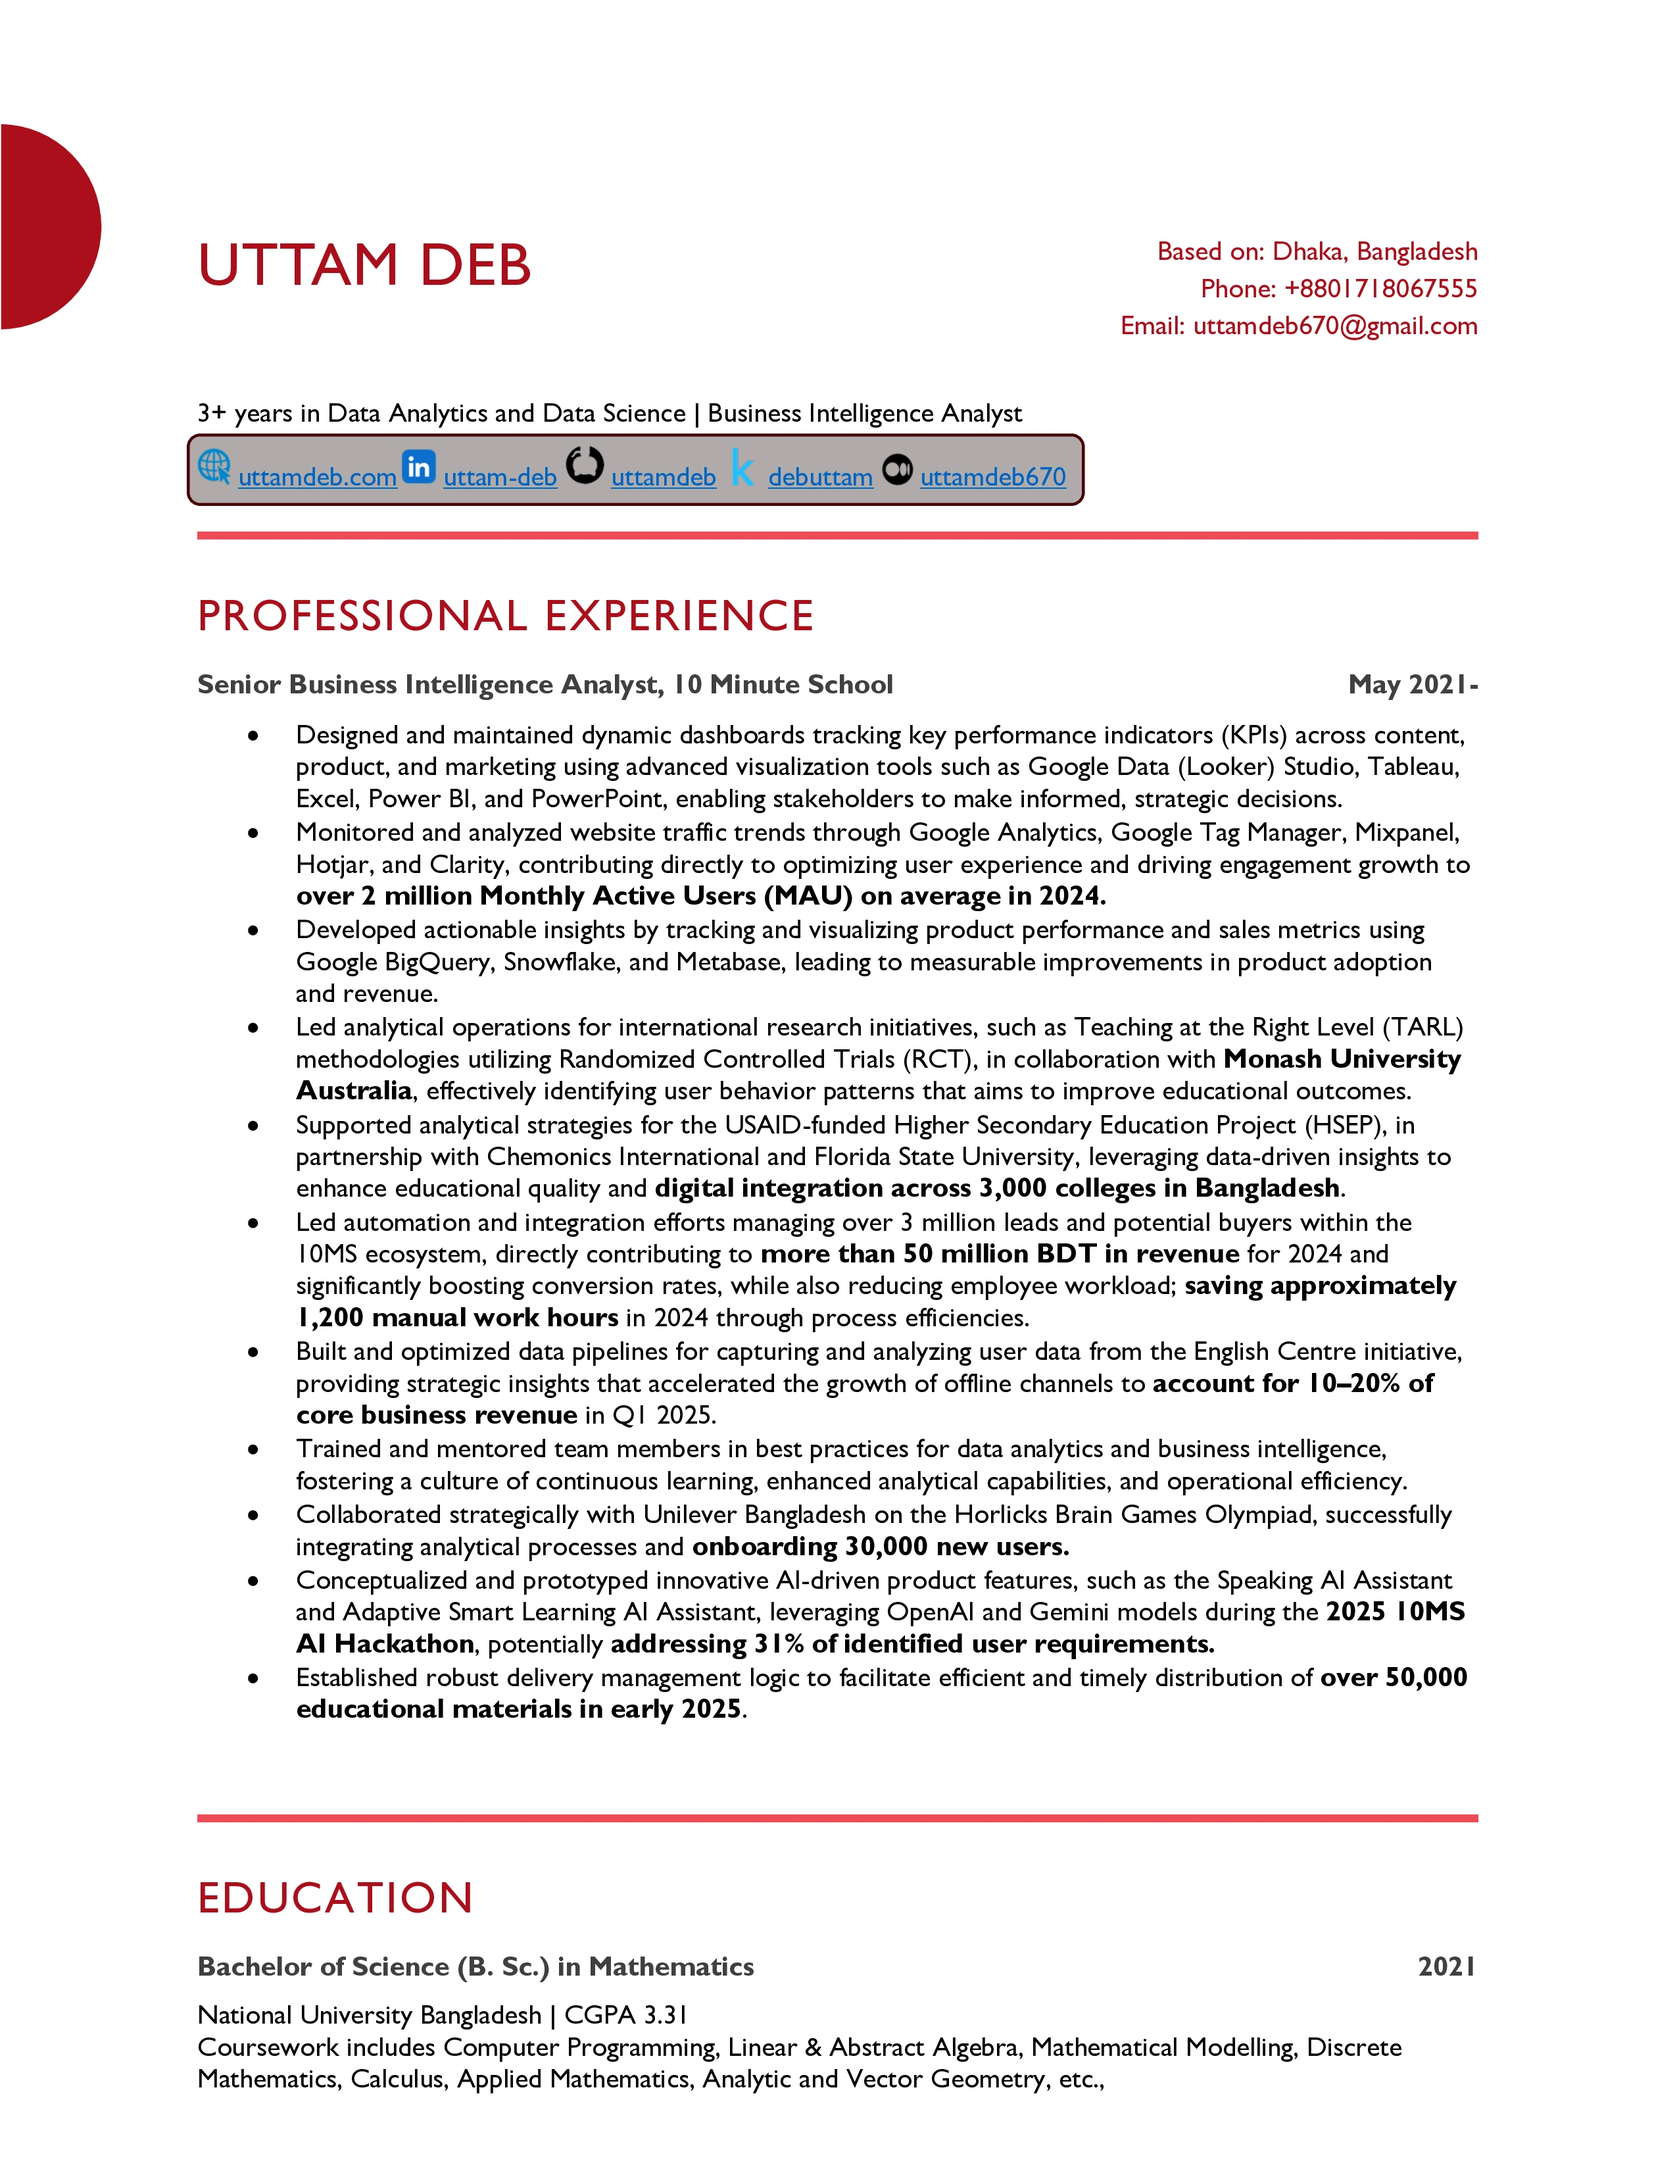
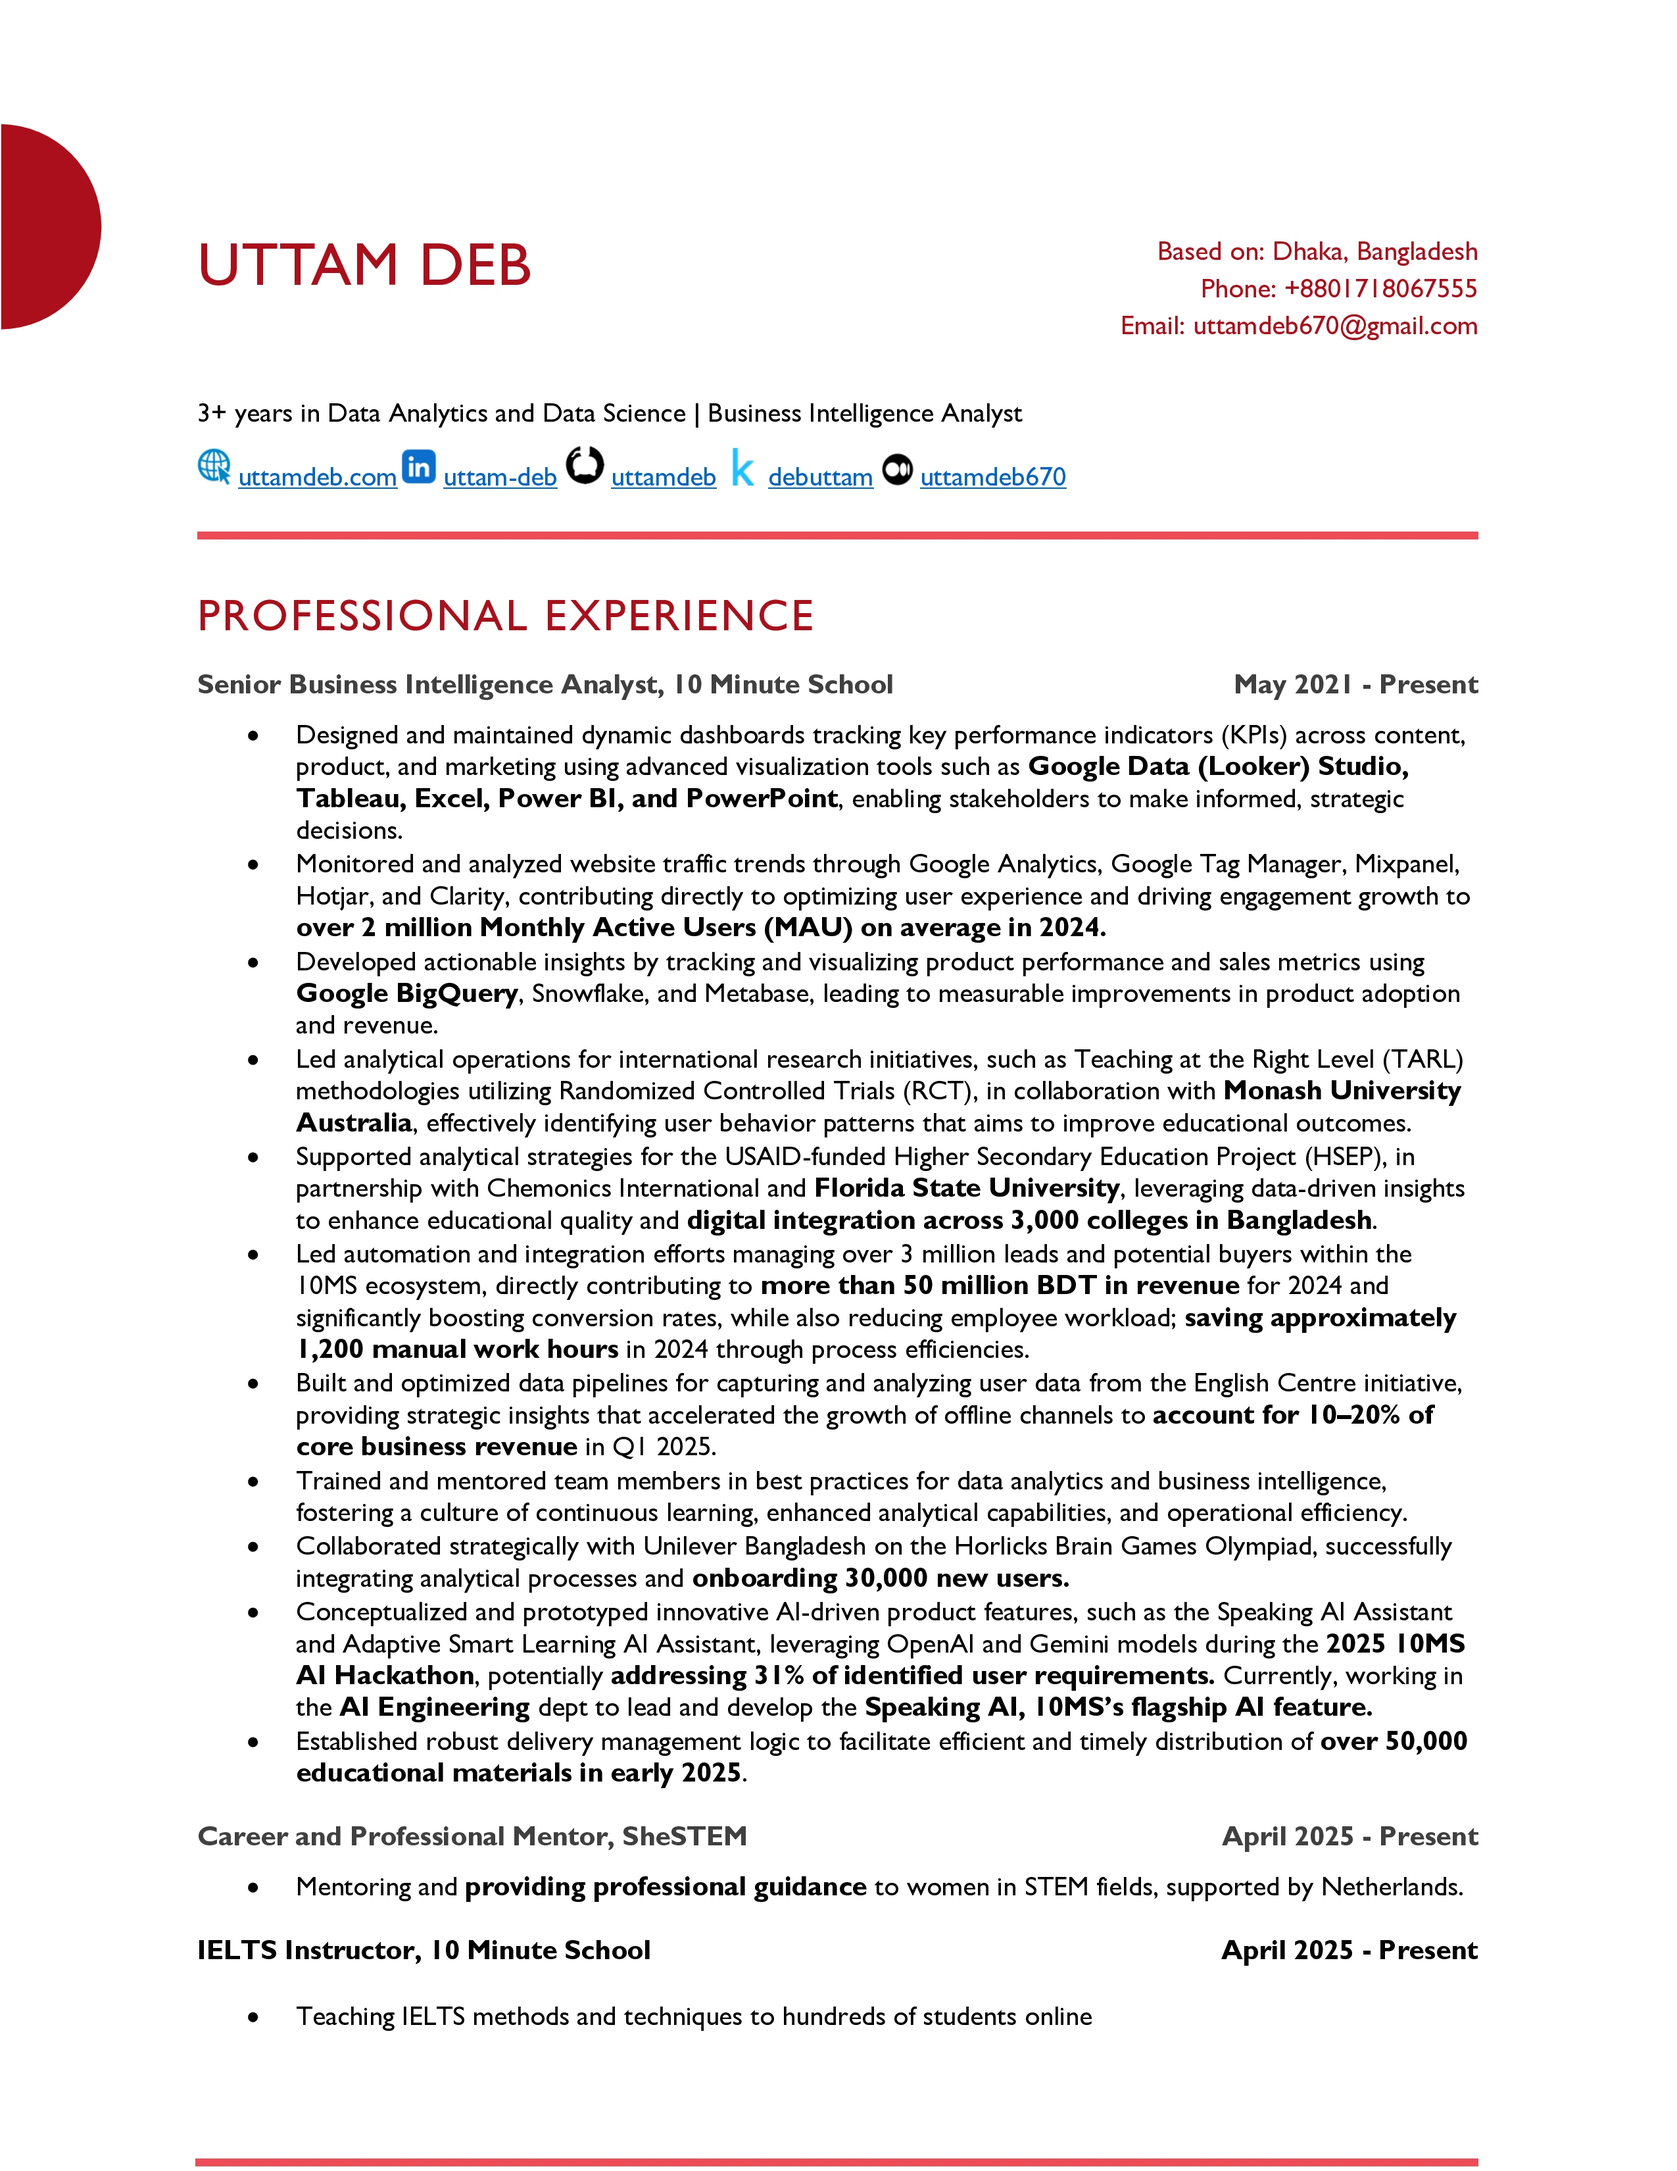
Updated resumé
v1.2.2 (June 26, 2025)
1. Updated resumé

Changed region(s): [[0.1239, 0.3121, 0.8675, 0.9988], [0.0929, 0.1873, 0.6506, 0.2497]]

diff --git a/resumé.html b/resumé.html
@@ -80,15 +80,15 @@
 							<article class="post featured">
 								<header>
 									<!-- <span class="date">April 1, 2023 - </span> -->
-									<h1><a href="https://drive.google.com/file/d/1ovv2HeWcMOABHvNLYBkJJ1VeuNXymM_U/view?usp=sharing">My Resumé</a></h1>
+									<h1><a href="https://drive.google.com/file/d/1OjsvbOttNyUcUws-7PEcZmQ97jGDAcbv/view?usp=drive_link">My Resumé</a></h1>
 									<p><b><h3>Click below to download my latest resumé</h3></b></p>
 									<!-- <p>Click below to download my latest resumé</p> -->
 										
 								</header>
-								<a href="https://drive.google.com/file/d/1ovv2HeWcMOABHvNLYBkJJ1VeuNXymM_U/view?usp=sharing" class="image main"><img src="images/UttamDebResumeApril12025Page1.webp" alt="Uttam Deb Resume" /></a>
-								<a href="https://drive.google.com/file/d/1ovv2HeWcMOABHvNLYBkJJ1VeuNXymM_U/view?usp=sharing" class="image main"><img src="images/UttamDebResumeApril12025Page2.webp" alt="Uttam Deb Resume" /></a>
+								<a href="https://drive.google.com/file/d/1OjsvbOttNyUcUws-7PEcZmQ97jGDAcbv/view?usp=drive_link" class="image main"><img src="images/UttamDebResumeApril12025Page1.webp" alt="Uttam Deb Resume" /></a>
+								<a href="https://drive.google.com/file/d/1OjsvbOttNyUcUws-7PEcZmQ97jGDAcbv/view?usp=drive_link" class="image main"><img src="images/UttamDebResumeApril12025Page2.webp" alt="Uttam Deb Resume" /></a>
 								<ul class="actions special">
-									<li><a href="https://drive.google.com/file/d/1ovv2HeWcMOABHvNLYBkJJ1VeuNXymM_U/view?usp=sharing" class="button primary">Download Resumé</a></li>
+									<li><a href="https://drive.google.com/file/d/1OjsvbOttNyUcUws-7PEcZmQ97jGDAcbv/view?usp=drive_link" class="button primary">Download Resumé</a></li>
 								</ul>
 							</article>
 
@@ -241,7 +241,7 @@
 				<div id="copyright" style="color: grey;">
 					<ul>
 					  <li><b>© 2025 Uttam Deb</b></li>
-					  <li><b>v1.2.1</b></li>
+					  <li><b>v1.2.2</b></li>
 					  <li><b>Hosted in: <a href="https://github.com" style="color: grey;"><b>GitHub</b></a></b></li>
 					</ul>
 				  </div>

diff --git a/index.html b/index.html
@@ -346,7 +346,7 @@ document.addEventListener('DOMContentLoaded', function() {
 				<div id="copyright" style="color: grey;">
 					<ul>
 					  <li><b>© 2025 Uttam Deb</b></li>
-					  <li><b>v1.2.1</b></li>
+					  <li><b>v1.2.2</b></li>
 					  <li><b>Hosted in: <a href="https://github.com" style="color: grey;"><b>GitHub</b></a></b></li>
 					</ul>
 				  </div>

diff --git a/achievements.html b/achievements.html
@@ -277,7 +277,7 @@
 				<div id="copyright" style="color: grey;">
 					<ul>
 					  <li><b>© 2025 Uttam Deb</b></li>
-					  <li><b>v1.2.1</b></li>
+					  <li><b>v1.2.2</b></li>
 					  <li><b>Hosted in: <a href="https://github.com" style="color: grey;"><b>GitHub</b></a></b></li>
 					</ul>
 				  </div>

diff --git a/experience.html b/experience.html
@@ -258,7 +258,7 @@
 				<div id="copyright" style="color: grey;">
 					<ul>
 					  <li><b>© 2025 Uttam Deb</b></li>
-					  <li><b>v1.2.1</b></li>
+					  <li><b>v1.2.2</b></li>
 					  <li><b>Hosted in: <a href="https://github.com" style="color: grey;"><b>GitHub</b></a></b></li>
 					</ul>
 				  </div>

diff --git a/linkedin-feed.html b/linkedin-feed.html
@@ -305,7 +305,7 @@
 				<div id="copyright" style="color: grey;">
 					<ul>
 					  <li><b>© 2025 Uttam Deb</b></li>
-					  <li><b>v1.2.1</b></li>
+					  <li><b>v1.2.2</b></li>
 					  <li><b>Hosted in: <a href="https://github.com" style="color: grey;"><b>GitHub</b></a></b></li>
 					</ul>
 				  </div>
